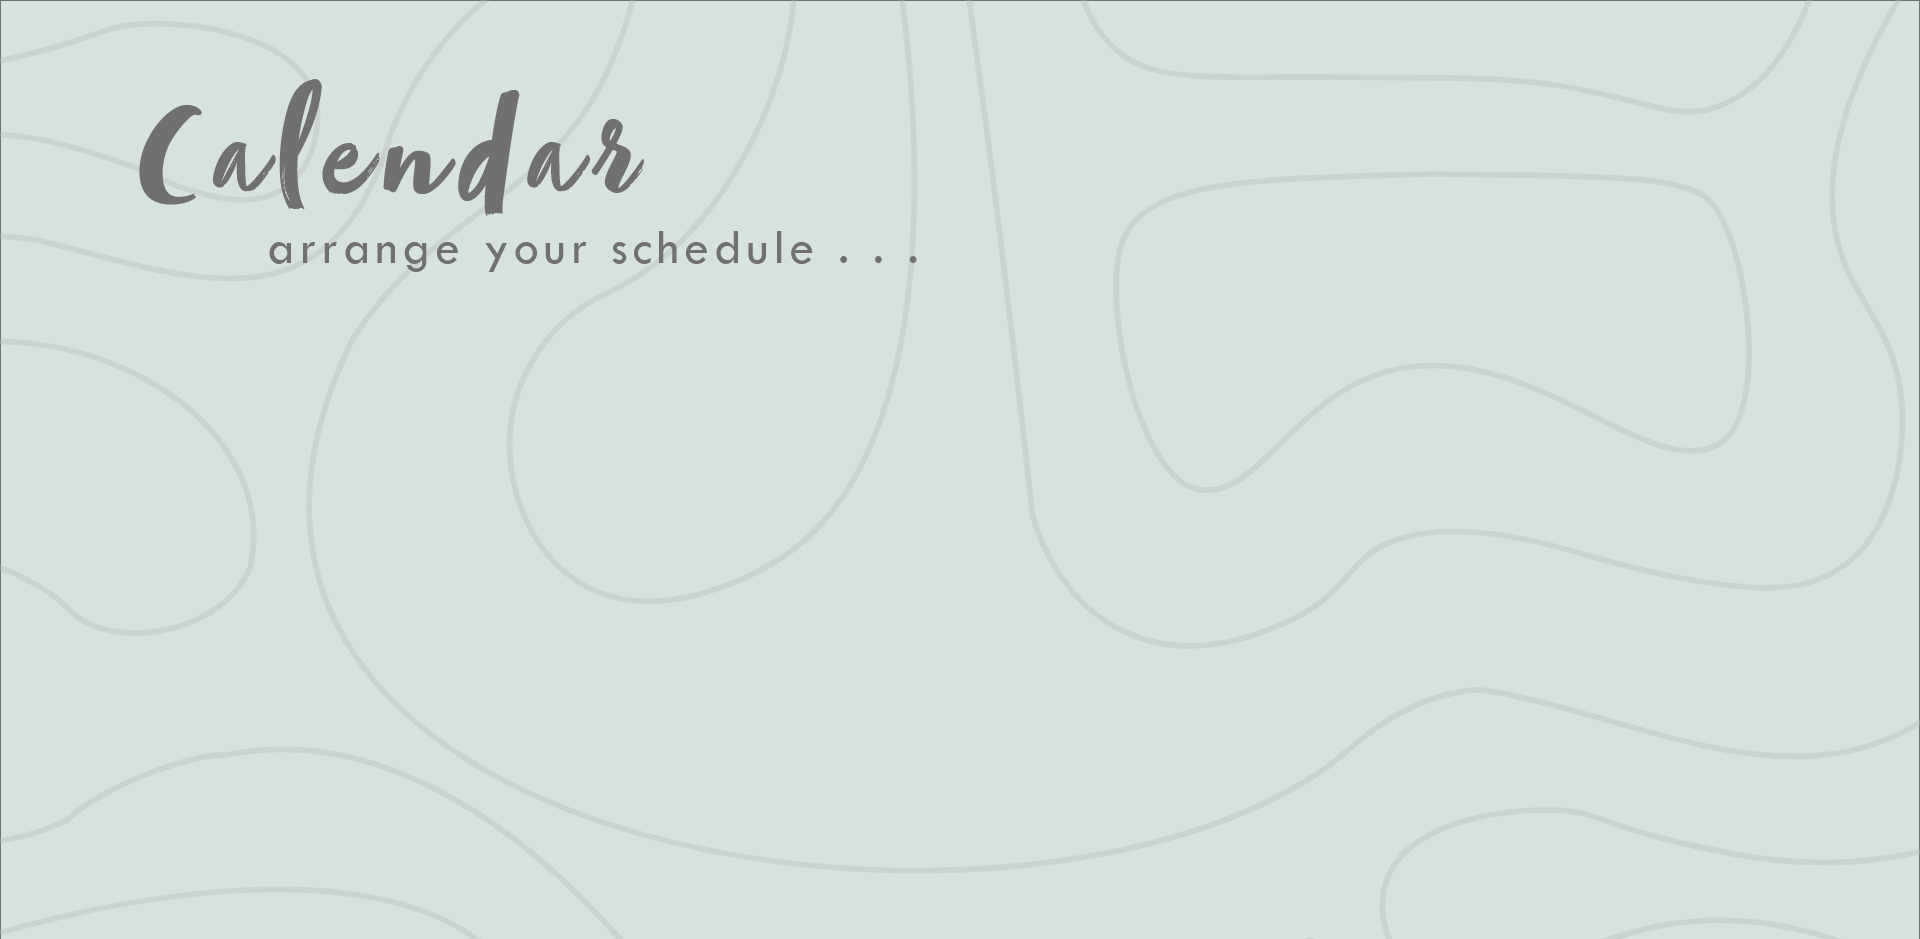
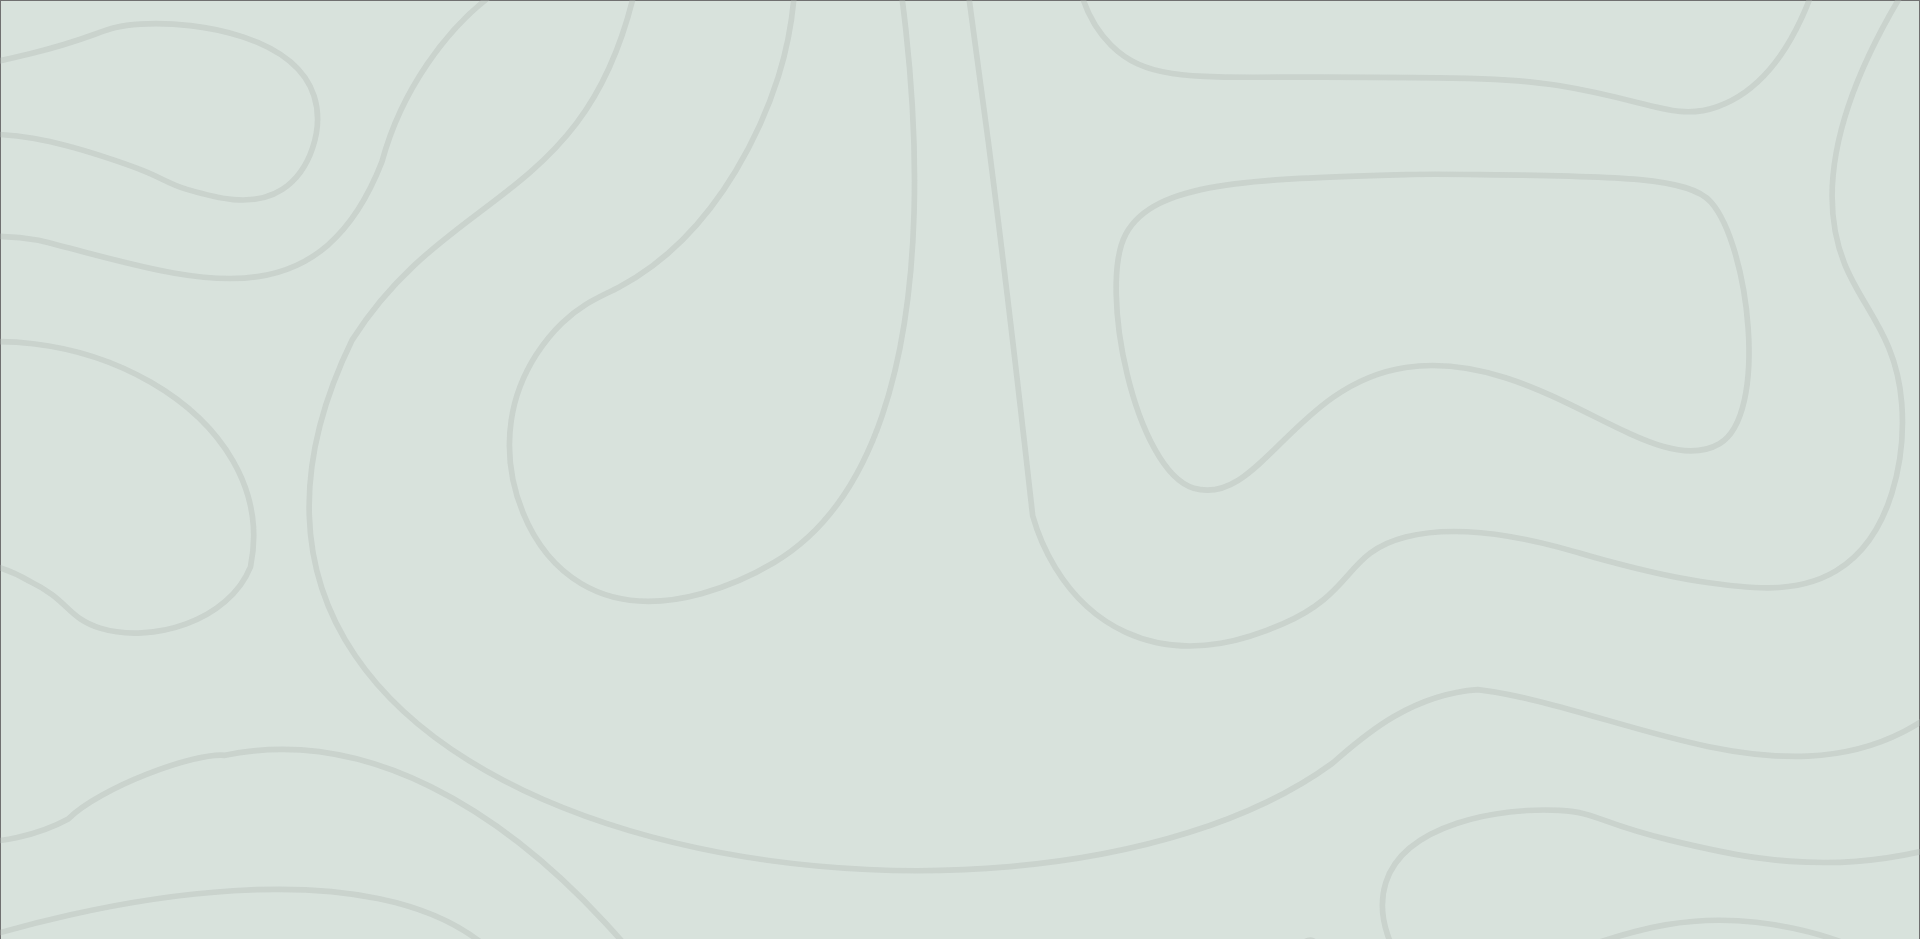
pushing recent changes

Changed region(s): [[0.0625, 0.0927, 0.4375, 0.278]]

diff --git a/calendar.html b/calendar.html
@@ -1,0 +1,26 @@
+<!DOCTYPE html>
+
+<html lang="en">
+
+<head>
+    <meta charset="UTF-8">
+    <meta name="viewport" content="width=device-width, initial-scale=1.0">
+    <meta http-equiv="X-UA-Compatible" content="ie=edge">
+    <title>Viva</title>
+    <style>
+        @import url("https://use.typekit.net/cnm5sax.css");
+    </style> 
+    <style>
+        @import url("https://use.typekit.net/cnm5sax.css");
+    </style>   
+    <link rel="stylesheet" href="styles.css"/>
+</head>
+
+<body>
+    <div class="calendar">
+        <img src="./Images/Web 1920 – 3.png" alt="Home-Page" class="big">
+        <a href="welcome.html"><img src="./Images/arrow.png" alt="arrow" class="small4"></a>
+        <h1>Calendar</h1>
+        <h3>arrange your schedule . . .</h3>
+        <iframe src="https://calendar.google.com/calendar/embed?height=600&amp;wkst=2&amp;bgcolor=%23d8e2dc&amp;ctz=America%2FLos_Angeles&amp;src=ZW4udXNhI2hvbGlkYXlAZ3JvdXAudi5jYWxlbmRhci5nb29nbGUuY29t&amp;color=%230B8043&amp;mode=WEEK&amp;showTitle=0&amp;showNav=1&amp;showPrint=0&amp;showCalendars=0&amp;showTz=0&amp;showTabs=1" style="border-width:0" width="1500" height="600" frameborder="0" scrolling="no"></iframe></body>
+</html>

diff --git a/styles.css b/styles.css
@@ -153,3 +153,71 @@ h1{
     top: 75%;
     left: 90%;
 }
+
+.small3{
+    width: 6%;
+    position: absolute;
+    z-index: 2;
+    top: 90%;
+    left: 8%;
+}
+
+.homebtn{
+    width: 6%;
+    position: absolute;
+    z-index: 2;
+    top: 90%;
+    left: 18%;
+}
+
+.songbtn{
+    width: 6%;
+    position: absolute;
+    z-index: 2;
+    top: 90%;
+    left: 28%;
+}
+
+
+.small4{
+    width: 6%;
+    position: absolute;
+    z-index: 2;
+    top: 90%;
+    left: 91.5%;
+}
+
+iframe{
+    z-index: 5;
+    position: absolute;
+    align-items: center;
+    top: 29%;
+    left: 10.5%;
+}
+
+.calendar h1{
+    font-family: zooja-pro, sans-serif;
+    font-weight: 400;
+    font-style: normal;
+    font-size: 150px;
+    margin-top: 60px !important;
+    padding-left: 137px;
+    letter-spacing: 10px;
+    color: #707070;
+    position: absolute;
+    z-index: 5;
+}
+
+.calendar h3{
+    font-family: atten-new, sans-serif;
+    font-weight: 300;
+    font-style: normal;
+    margin-top: 190px !important;
+    font-size: 25px;
+    padding-left: 287px;
+    letter-spacing: 10px;
+    margin-bottom: 70px;
+    color: #707070;
+    position: absolute;
+    z-index: 5;
+}

diff --git a/welcome.html b/welcome.html
@@ -28,6 +28,12 @@
         <a href="welcome.html"><img src="./Images/Component 2 – 1.png" alt="arrow-2" class="go2"></a>
         <a href="welcome.html"><img src="./Images/Component 2 – 1.png" alt="arrow-2" class="go3"></a>
 
+        <a href="calendar.html"><img src="./Images/Component 4 – 1.png" alt="arrow" class="small3"></a>
+        <a href="home.html"><img src="./Images/Component 3 – 1.png" alt="arrow" class="homebtn"></a>
+        <a href="podcast.html"><img src="./Images/Component 5 – 1.png" alt="arrow" class="songbtn"></a>
+
+
+
         
         <div class="button1">
             <h2>Anxiety</h2>
